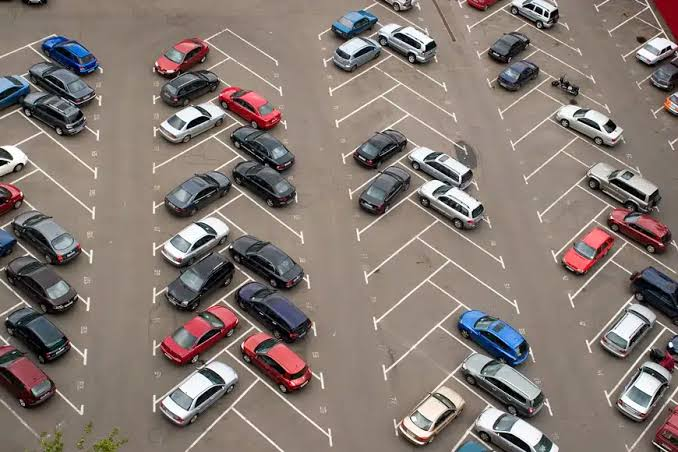
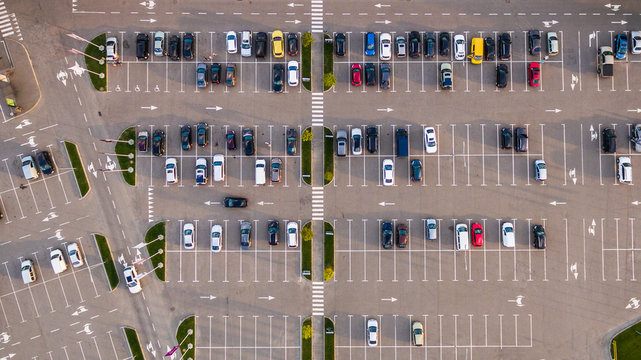
modified OR added

diff --git a/parking_db.py b/parking_db.py
@@ -329,7 +329,52 @@ def seed_zones(db_path: str = PARKING_DB_PATH) -> None:
     conn.close()
 
 
-# FUNCTION 10 ─ get_all_zones
+# FUNCTION 10 (NEW) ─ sync_zones_from_config
+def sync_zones_from_config(db_path: str = PARKING_DB_PATH) -> None:
+    """
+    Wipes ALL existing rows in parking_zones and re-inserts fresh rows
+    from ZONE_CONFIG in slot_config.py.
+
+    WHY wipe instead of INSERT OR IGNORE?
+      INSERT OR IGNORE keeps OLD zones that no longer exist in ZONE_CONFIG.
+      If you rename a zone in slot_config.py or run draw_slots.py to create
+      new zones, the old stale rows would stay in the DB forever.
+      sync_zones_from_config() guarantees the DB always matches the config.
+
+    SAFETY:
+      It resets parked_count=0 and available=capacity for all zones.
+      This is intentional — the detection engine will repopulate counts
+      on the next frame. It does NOT touch the parking_slots table.
+
+    Parameters:
+        db_path (str): Path to the SQLite database file.
+
+    Called by:
+        app.py  main()  →  on every Streamlit startup / refresh.
+    """
+    from slot_config import ZONE_CONFIG
+
+    conn = sqlite3.connect(db_path)
+    cursor = conn.cursor()
+    timestamp = datetime.now().strftime("%Y-%m-%d %H:%M:%S")
+
+    # Step 1: Remove ALL existing zone rows (wipe old/stale data)
+    cursor.execute("DELETE FROM parking_zones")
+
+    # Step 2: Re-insert one row per zone from ZONE_CONFIG
+    for zone_id, cfg in ZONE_CONFIG.items():
+        capacity = cfg.get("capacity", 1)
+        cursor.execute("""
+            INSERT INTO parking_zones
+                (zone_id, capacity, parked_count, available, occ_pct, status, last_updated)
+            VALUES (?, ?, 0, ?, 0.0, 'available', ?)
+        """, (zone_id, capacity, capacity, timestamp))
+
+    conn.commit()
+    conn.close()
+
+
+# FUNCTION 11 ─ get_all_zones
 def get_all_zones(db_path: str = PARKING_DB_PATH) -> list:
     """
     Returns all zone rows from parking_zones, ordered by zone_id.

diff --git a/slot_config.py b/slot_config.py
@@ -99,22 +99,24 @@ SLOT_COORDINATES: dict = {
 #   }
 
 ZONE_CONFIG: dict = {
-    "Zone A": {
-        "coords"  : [0.02, 0.02, 0.49, 0.49],
-        "capacity": 6,
-    },
-    "Zone B": {
-        "coords"  : [0.51, 0.02, 0.98, 0.49],
-        "capacity": 6,
-    },
-    "Zone C": {
-        "coords"  : [0.02, 0.51, 0.49, 0.98],
-        "capacity": 6,
-    },
-    "Zone D": {
-        "coords"  : [0.51, 0.51, 0.98, 0.98],
-        "capacity": 6,
-    },
+
+    # ── Row A (y: 5% – 28%) ────────────────────────────────────────────────────
+    "A1": {"coords": [0.02, 0.05, 0.23, 0.28], "capacity": 1},
+    "A2": {"coords": [0.27, 0.05, 0.48, 0.28], "capacity": 1},
+    "A3": {"coords": [0.52, 0.05, 0.73, 0.28], "capacity": 1},
+    "A4": {"coords": [0.77, 0.05, 0.98, 0.28], "capacity": 1},
+
+    # ── Row B (y: 38% – 62%) ────────────────────────────────────────────────────
+    "B1": {"coords": [0.02, 0.38, 0.23, 0.62], "capacity": 1},
+    "B2": {"coords": [0.27, 0.38, 0.48, 0.62], "capacity": 1},
+    "B3": {"coords": [0.52, 0.38, 0.73, 0.62], "capacity": 1},
+    "B4": {"coords": [0.77, 0.38, 0.98, 0.62], "capacity": 1},
+
+    # ── Row C (y: 72% – 95%) ────────────────────────────────────────────────────
+    "C1": {"coords": [0.02, 0.72, 0.23, 0.95], "capacity": 1},
+    "C2": {"coords": [0.27, 0.72, 0.48, 0.95], "capacity": 1},
+    "C3": {"coords": [0.52, 0.72, 0.73, 0.95], "capacity": 1},
+    "C4": {"coords": [0.77, 0.72, 0.98, 0.95], "capacity": 1},
 }
 
 

diff --git a/app.py b/app.py
@@ -30,7 +30,7 @@ from parking_db import (
     init_parking_db,
     init_zones_db,
     seed_slots,
-    seed_zones,
+    sync_zones_from_config,
     get_all_zones,
     get_zone_stats,
     ZONE_STATUS_AVAILABLE,
@@ -625,13 +625,14 @@ def main() -> None:
     # ── Step 1: CSS ─────────────────────────────────────────────────────────────
     apply_styles()
 
-    # ── Step 2 & 3: Ensure DB tables + seed zones ───────────────────────────────
-    # All init / seed functions use CREATE TABLE IF NOT EXISTS / INSERT OR IGNORE
-    # → completely safe to call on every refresh. Never overwrites existing data.
+    # ── Step 2 & 3: Ensure DB tables + sync zones from config ───────────────────
+    # init_parking_db() / init_zones_db() use CREATE TABLE IF NOT EXISTS → safe.
+    # sync_zones_from_config() WIPES parking_zones and re-inserts from ZONE_CONFIG
+    # so the dashboard always reflects the exact zones in slot_config.py.
     init_parking_db()
     init_zones_db()
     seed_slots(total_rows=3, cols=4)
-    seed_zones()
+    sync_zones_from_config()   # <-- always syncs with slot_config.ZONE_CONFIG
 
     # ── Step 4: Fetch aggregate zone stats ──────────────────────────────────────
     zone_stats = get_zone_stats()
